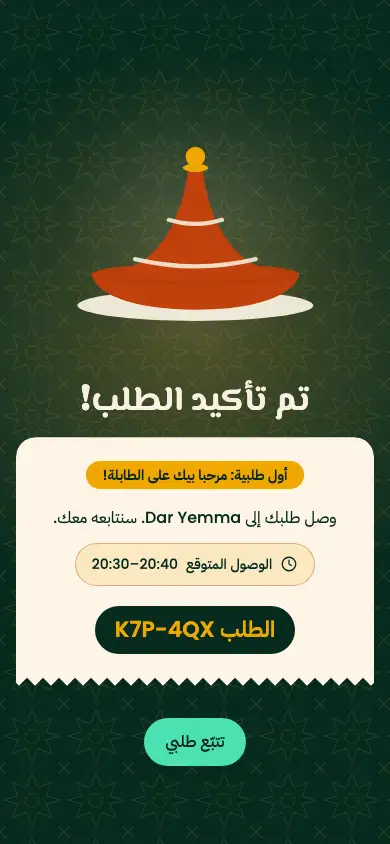
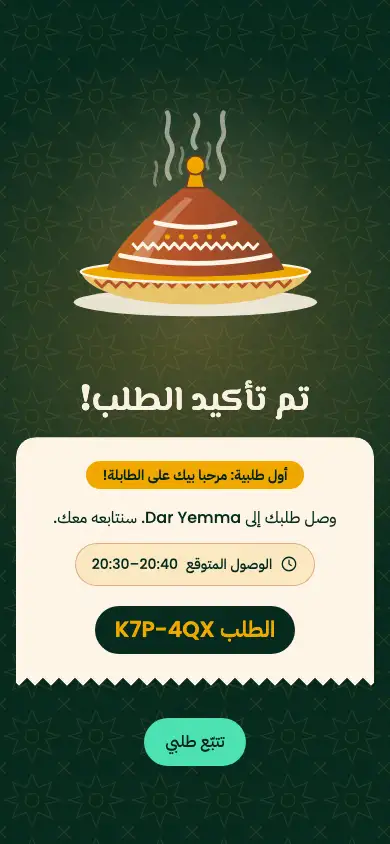
docs(gallery): show Discovery at dawn, midday, dusk and night
390 px French, light and dark, captured with a fixed clock by pnpm evidence:interactions; the
confirmed captures show the new tagine.

Changed region(s): [[0.1846, 0.1232, 0.8308, 0.4005]]

diff --git a/apps/web/src/admin/gallery/before-after.tsx b/apps/web/src/admin/gallery/before-after.tsx
@@ -32,7 +32,14 @@ export function BeforeAfter({
   labels,
 }: {
   locale: Locale;
-  labels: { title: string; intro: string; before: string; after: string };
+  labels: {
+    title: string;
+    intro: string;
+    before: string;
+    after: string;
+    momentsTitle: string;
+    momentsIntro: string;
+  };
 }) {
   return (
     <section className="before-after" aria-labelledby="before-after-title">
@@ -62,6 +69,51 @@ export function BeforeAfter({
           }),
         )}
       </ul>
+      <TimeOfDay title={labels.momentsTitle} intro={labels.momentsIntro} />
     </section>
+  );
+}
+
+// Discovery's sky at each moment (D-037), captured with a fixed clock: no "before" exists.
+const moments = [
+  ["fajr", "07:00"],
+  ["nhar", "12:00"],
+  ["maghrib", "18:00"],
+  ["lil", "22:00"],
+] as const;
+
+function TimeOfDay({ title, intro }: { title: string; intro: string }) {
+  return (
+    <>
+      <h2 id="time-of-day-title">{title}</h2>
+      <p>{intro}</p>
+      <ul className="before-after-list before-after-moments" aria-labelledby="time-of-day-title">
+        {(["fr-390", "fr-390-dark"] as const).map((variant) => {
+          const name = `discover-${variant}`;
+          return (
+            <li key={variant}>
+              <h3>
+                <code dir="ltr">{name}</code>
+              </h3>
+              {moments.map(([moment, time]) => (
+                <figure key={moment}>
+                  <img
+                    src={`/dev-gallery/moments/discover-${moment}-${variant}.webp`}
+                    alt=""
+                    loading="lazy"
+                    width={390}
+                    height={844}
+                  />
+                  <figcaption className="before-after-moment">
+                    <bdi dir="ltr">{time}</bdi>
+                    <code dir="ltr">{moment}</code>
+                  </figcaption>
+                </figure>
+              ))}
+            </li>
+          );
+        })}
+      </ul>
+    </>
   );
 }

diff --git a/apps/web/src/admin/gallery/gallery-page.tsx b/apps/web/src/admin/gallery/gallery-page.tsx
@@ -82,6 +82,8 @@ export function GalleryPage({
                 intro: messages.designGallery.beforeAfterIntro,
                 before: messages.designGallery.before,
                 after: messages.designGallery.after,
+                momentsTitle: messages.designGallery.momentsTitle,
+                momentsIntro: messages.designGallery.momentsIntro,
               }}
             />
             <SystemShowcase copy={messages.designGallery} />

diff --git a/apps/web/src/admin/gallery/operations-gallery.css b/apps/web/src/admin/gallery/operations-gallery.css
@@ -90,6 +90,17 @@
   grid-column: 1 / -1;
 }
 
+.before-after-moment {
+  display: flex;
+  gap: var(--space-8);
+}
+
+/* Time of day: the four moments of one variant side by side. */
+.before-after-list > li:has(> figure:nth-of-type(4)) {
+  grid-column: 1 / -1;
+  grid-template-columns: repeat(4, minmax(0, 1fr));
+}
+
 .before-after-list h3 {
   grid-column: 1 / -1;
   font-size: var(--font-size-caption);
